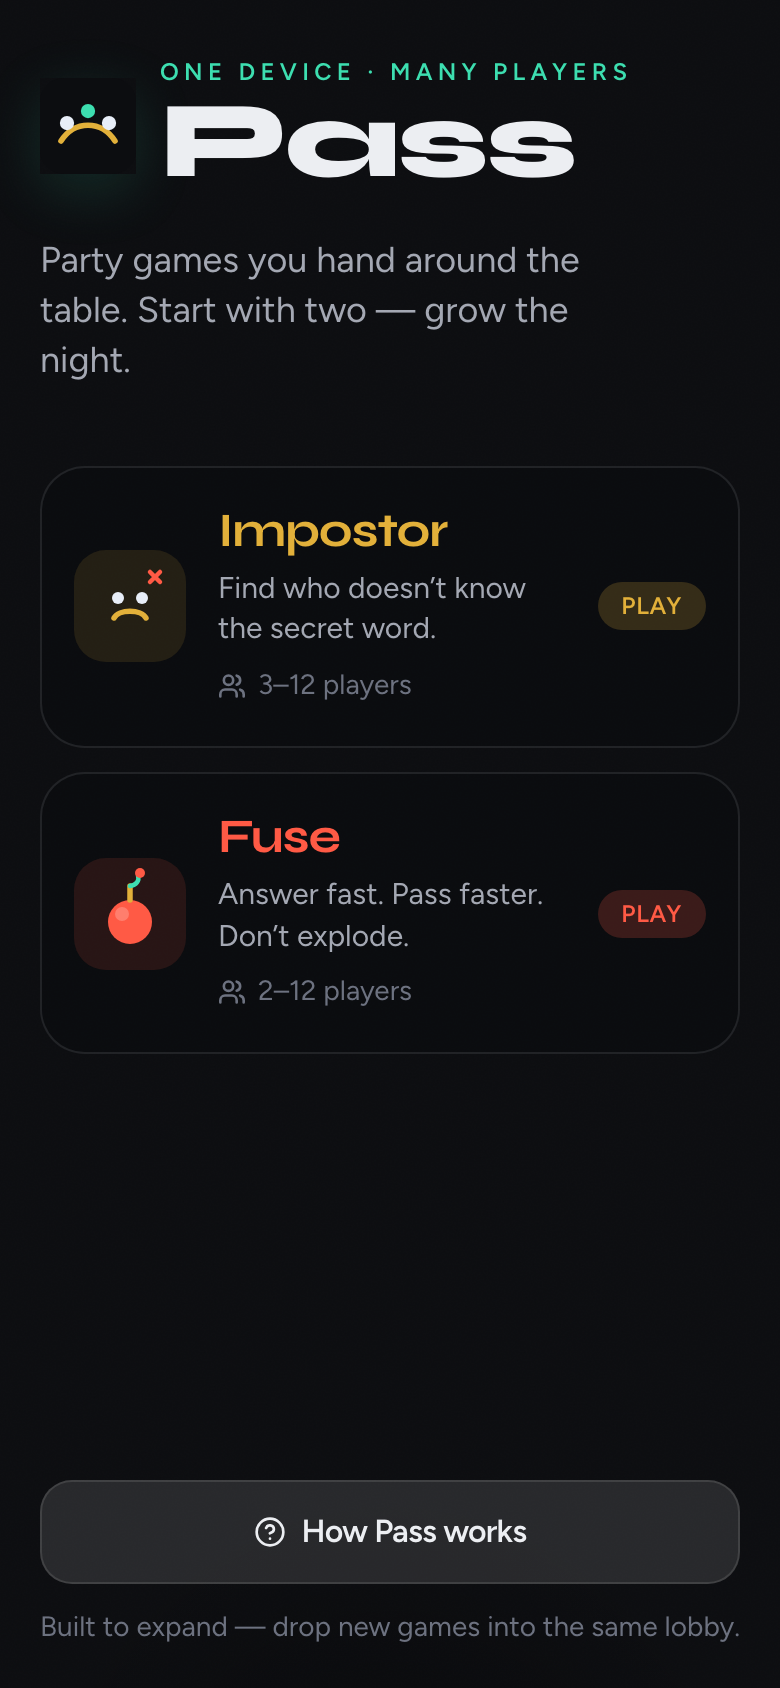
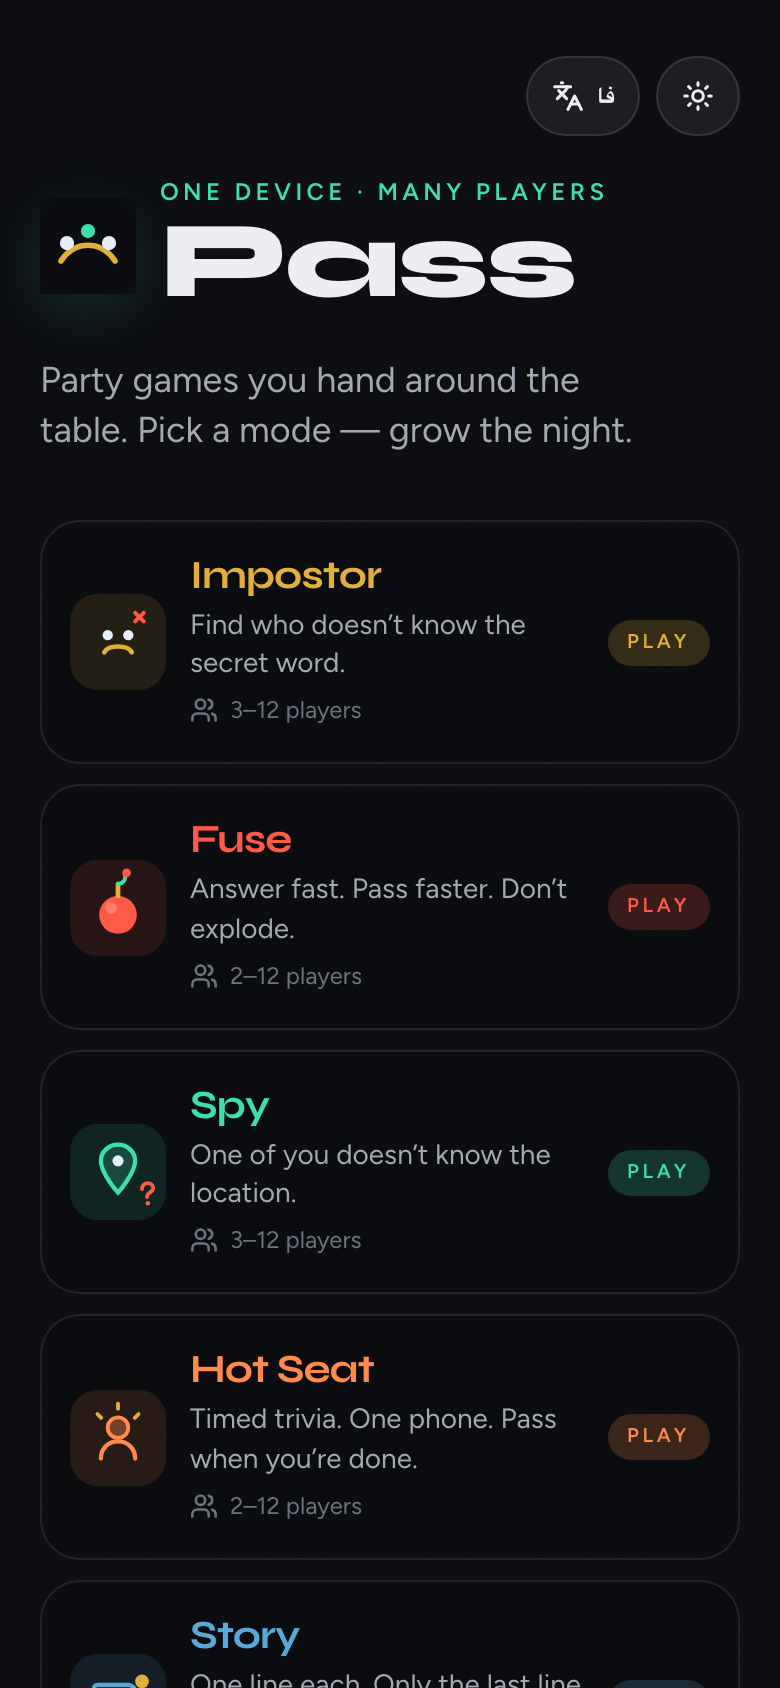
Polish Story, Know You, and Likely flows and add screenshots.
Fix scroll clipping, tighten home cards, speed up Know You passes, add sip undo, and document the new games in the README.

diff --git a/src/games/likely/Play.tsx b/src/games/likely/Play.tsx
@@ -27,6 +27,7 @@ export function LikelyPlay() {
   const lastRoundTop = useLikely((s) => s.lastRoundTop)
   const roundVotes = useLikely((s) => s.roundVotes)
   const toggleSip = useLikely((s) => s.toggleSip)
+  const undoSip = useLikely((s) => s.undoSip)
   const nextNever = useLikely((s) => s.nextNever)
   const showMostVote = useLikely((s) => s.showMostVote)
   const castVote = useLikely((s) => s.castVote)
@@ -64,19 +65,43 @@ export function LikelyPlay() {
           </h2>
           <p className="mt-3 text-sm text-fog-mute">{t('likely.play.sipHint')}</p>
           <div className="mt-6 grid gap-2">
-            {players.map((p) => (
-              <button
-                key={p.id}
-                type="button"
-                onClick={() => toggleSip(p.id)}
-                className="flex items-center justify-between rounded-2xl border border-fog/12 bg-ink/30 px-4 py-3 text-start transition-colors hover:border-gold/40 hover:bg-gold/10"
-              >
-                <span className="font-semibold text-fog">{p.name}</span>
-                <span className="tabular-nums text-gold">
-                  {t('likely.play.sips', { count: sips[p.id] ?? 0 })}
-                </span>
-              </button>
-            ))}
+            {players.map((p) => {
+              const count = sips[p.id] ?? 0
+              return (
+                <div
+                  key={p.id}
+                  className="flex items-center gap-2 rounded-2xl border border-fog/12 bg-ink/30 px-3 py-2"
+                >
+                  <button
+                    type="button"
+                    onClick={() => undoSip(p.id)}
+                    disabled={count <= 0}
+                    aria-label={t('likely.play.undoSip', { name: p.name })}
+                    className="flex size-11 shrink-0 items-center justify-center rounded-xl text-xl font-bold text-fog-mute transition-colors hover:bg-smoke hover:text-fog disabled:opacity-25"
+                  >
+                    −
+                  </button>
+                  <button
+                    type="button"
+                    onClick={() => toggleSip(p.id)}
+                    className="flex min-w-0 flex-1 items-center justify-between rounded-xl px-2 py-2 text-start transition-colors hover:bg-gold/10"
+                  >
+                    <span className="font-semibold text-fog">{p.name}</span>
+                    <span className="tabular-nums text-gold">
+                      {t('likely.play.sips', { count })}
+                    </span>
+                  </button>
+                  <button
+                    type="button"
+                    onClick={() => toggleSip(p.id)}
+                    aria-label={t('likely.play.addSip', { name: p.name })}
+                    className="flex size-11 shrink-0 items-center justify-center rounded-xl text-xl font-bold text-gold transition-colors hover:bg-gold/15"
+                  >
+                    +
+                  </button>
+                </div>
+              )
+            })}
           </div>
         </FadeSwap>
         <Button className="mt-6 w-full" size="xl" onClick={nextNever}>

diff --git a/src/games/bond/Play.tsx b/src/games/bond/Play.tsx
@@ -110,9 +110,17 @@ export function BondPlay() {
     return (
       <Screen>
         <TopBar title={subject?.name ?? t('games.bond.name')} onBack={leave} />
-        <p className="label-caps text-sm font-medium text-rose">
-          {t('bond.play.aboutYou')}
-        </p>
+        <div className="flex items-center justify-between gap-3">
+          <p className="label-caps text-sm font-medium text-rose">
+            {t('bond.play.aboutYou')}
+          </p>
+          <p className="text-sm text-fog-mute">
+            {t('bond.play.progress', {
+              current: answerIndex + 1,
+              total: queue.length,
+            })}
+          </p>
+        </div>
         <h2 className="mt-4 font-display text-2xl font-bold leading-snug tracking-tight">
           {prompt}
         </h2>
@@ -171,9 +179,17 @@ export function BondPlay() {
     return (
       <Screen>
         <TopBar title={guesser?.name ?? t('games.bond.name')} onBack={leave} />
-        <p className="label-caps text-sm font-medium text-rose">
-          {t('bond.play.aboutStar', { name: subject?.name ?? '' })}
-        </p>
+        <div className="flex items-center justify-between gap-3">
+          <p className="label-caps text-sm font-medium text-rose">
+            {t('bond.play.aboutStar', { name: subject?.name ?? '' })}
+          </p>
+          <p className="text-sm text-fog-mute">
+            {t('bond.play.progress', {
+              current: guessQuestionIndex + 1,
+              total: queue.length,
+            })}
+          </p>
+        </div>
         <h2 className="mt-4 font-display text-2xl font-bold leading-snug tracking-tight">
           {prompt}
         </h2>

diff --git a/src/i18n/messages.ts b/src/i18n/messages.ts
@@ -60,8 +60,8 @@ const en = {
   'howto.story.3': 'Hide your line and hand it on. No peeking.',
   'howto.story.4': 'When everyone’s done, read the full story out loud.',
   'howto.bond.title': 'How Know You works',
-  'howto.bond.1': 'Pick who’s in the spotlight — they answer questions privately.',
-  'howto.bond.2': 'Everyone else takes turns guessing what they picked.',
+  'howto.bond.1': 'Pick who’s in the spotlight — they answer all questions in one private pass.',
+  'howto.bond.2': 'Hand the phone to each friend; they guess what the star picked.',
   'howto.bond.3': 'Correct guesses score a point.',
   'howto.bond.4': 'Highest score knows them best.',
   'howto.likely.title': 'How Likely works',
@@ -297,8 +297,10 @@ const en = {
   'likely.play.neverTitle': 'Never have I ever',
   'likely.play.mostTitle': 'Most likely',
   'likely.play.round': 'Round {current}/{total}',
-  'likely.play.sipHint': 'Tap anyone who has done it.',
+  'likely.play.sipHint': 'Tap + when someone has done it. Use − to undo.',
   'likely.play.sips': '{count} sips',
+  'likely.play.addSip': 'Add sip for {name}',
+  'likely.play.undoSip': 'Undo sip for {name}',
   'likely.play.nextPrompt': 'Next prompt',
   'likely.play.seeResults': 'See results',
   'likely.play.lookAway': 'Everyone else: look away. Only {name} should see the next screen.',
@@ -391,8 +393,8 @@ const fa: Record<MessageKey, string> = {
   'howto.story.3': 'خطت را پنهان کن و بده. نگاه نکنید.',
   'howto.story.4': 'وقتی همه تمام شد، کل داستان را بلند بخوانید.',
   'howto.bond.title': 'چقدر میشناسی چطور کار میکند',
-  'howto.bond.1': 'یکی را برای مرکز توجه انتخاب کنید — اول خصوصی جواب میدهد.',
-  'howto.bond.2': 'بقیه نوبتی حدس میزنند چه جوابی داده.',
+  'howto.bond.1': 'یکی را برای مرکز توجه انتخاب کنید — همه سوالها را در یک پاس خصوصی جواب میدهد.',
+  'howto.bond.2': 'گوشی را به هر دوست بدهید؛ حدس میزنند ستاره چه انتخاب کرده.',
   'howto.bond.3': 'حدس درست یک امتیاز میدهد.',
   'howto.bond.4': 'بیشترین امتیاز یعنی بهتر میشناسدش.',
   'howto.likely.title': 'احتمال چطور کار میکند',
@@ -628,8 +630,10 @@ const fa: Record<MessageKey, string> = {
   'likely.play.neverTitle': 'هرگز…',
   'likely.play.mostTitle': 'از همه بیشتر',
   'likely.play.round': 'راند {current}/{total}',
-  'likely.play.sipHint': 'روی کسی بزن که این کار را کرده.',
+  'likely.play.sipHint': 'با + برای کسی که کرده بزن. با − برگردان.',
   'likely.play.sips': '{count} جرعه',
+  'likely.play.addSip': 'افزودن جرعه برای {name}',
+  'likely.play.undoSip': 'برگرداندن جرعه برای {name}',
   'likely.play.nextPrompt': 'پرامپت بعد',
   'likely.play.seeResults': 'دیدن نتایج',
   'likely.play.lookAway': 'بقیه نگاه نکنید. فقط {name} صفحه بعد را ببیند.',

diff --git a/src/screens/HomeScreen.tsx b/src/screens/HomeScreen.tsx
@@ -106,7 +106,7 @@ export function HomeScreen() {
         </motion.div>
 
         <motion.div
-          className="mt-10 space-y-3"
+          className="mt-8 space-y-2.5"
           initial={{ opacity: 0, y: 20 }}
           animate={{ opacity: 1, y: 0 }}
           transition={{ delay: 0.1, duration: 0.45, ease: [0.22, 1, 0.36, 1] }}
@@ -119,25 +119,25 @@ export function HomeScreen() {
                 type="button"
                 onClick={() => selectGame(game.id)}
                 className={cn(
-                  'group relative w-full overflow-hidden rounded-[1.4rem] border border-fog/10 px-4 py-4 text-start transition-[transform,background-color,border-color] duration-200',
+                  'group relative w-full overflow-hidden rounded-[1.25rem] border border-fog/10 px-3.5 py-3 text-start transition-[transform,background-color,border-color] duration-200',
                   'bg-ink/40 hover:-translate-y-0.5 hover:border-fog/22 hover:bg-ink/55',
                 )}
               >
-                <div className="flex items-center gap-4">
-                  <Mark className="size-14" />
+                <div className="flex items-center gap-3">
+                  <Mark className="size-12" />
                   <div className="min-w-0 flex-1">
                     <p
                       className={cn(
-                        'font-display text-2xl font-bold tracking-tight',
+                        'font-display text-xl font-bold tracking-tight',
                         accentText(game.accent),
                       )}
                     >
                       {t(gameNameKey[game.id])}
                     </p>
-                    <p className="mt-0.5 text-[15px] leading-snug text-fog-dim">
+                    <p className="mt-0.5 line-clamp-2 text-[14px] leading-snug text-fog-dim">
                       {t(gameTaglineKey[game.id])}
                     </p>
-                    <p className="mt-2 inline-flex items-center gap-1.5 text-sm text-fog-mute">
+                    <p className="mt-1.5 inline-flex items-center gap-1.5 text-xs text-fog-mute">
                       <Users className="size-3.5" strokeWidth={2.25} />
                       {t('home.playersRange', {
                         min: game.minPlayers,
@@ -147,7 +147,7 @@ export function HomeScreen() {
                   </div>
                   <span
                     className={cn(
-                      'label-caps shrink-0 rounded-full px-3 py-1 text-xs font-semibold',
+                      'label-caps shrink-0 rounded-full px-2.5 py-1 text-[10px] font-semibold',
                       accentPill(game.accent),
                     )}
                   >

diff --git a/src/games/bond/store.ts b/src/games/bond/store.ts
@@ -129,10 +129,11 @@ export const useBond = create<BondState>((set, get) => ({
       })
       return
     }
+    // Keep answering in one private session — no re-pass between the star’s own questions.
     set({
       subjectAnswers: next,
       answerIndex: answerIndex + 1,
-      phase: 'answerPass',
+      phase: 'answer',
     })
   },
 
@@ -167,7 +168,13 @@ export const useBond = create<BondState>((set, get) => ({
     } = get()
     const nextQ = guessQuestionIndex + 1
     if (nextQ < queue.length) {
-      set({ guessQuestionIndex: nextQ, phase: 'guessPass', lastCorrect: null, lastGuess: null })
+      // Same guesser keeps the phone — pass only when the next person starts.
+      set({
+        guessQuestionIndex: nextQ,
+        phase: 'guess',
+        lastCorrect: null,
+        lastGuess: null,
+      })
       return
     }
     const nextGuesser = guesserIndex + 1

diff --git a/src/games/story/Play.tsx b/src/games/story/Play.tsx
@@ -77,14 +77,20 @@ export function StoryPlay() {
             {lines.length === 0 ? starter : previous}
           </p>
           <label className="mt-6 block">
-            <span className="label-caps text-sm font-medium text-fog-mute">
-              {t('story.play.yourLine')}
+            <span className="flex items-center justify-between gap-3">
+              <span className="label-caps text-sm font-medium text-fog-mute">
+                {t('story.play.yourLine')}
+              </span>
+              <span className="text-xs tabular-nums text-fog-mute">
+                {draft.length}/220
+              </span>
             </span>
             <textarea
               value={draft}
               onChange={(e) => setDraft(e.target.value)}
               rows={4}
               maxLength={220}
+              autoFocus
               placeholder={t('story.play.placeholder')}
               className="mt-2 w-full resize-none rounded-2xl border border-fog/12 bg-ink/30 px-4 py-3 text-[17px] text-fog outline-none placeholder:text-fog-mute focus:border-sky/45"
             />

diff --git a/src/games/likely/store.ts b/src/games/likely/store.ts
@@ -38,6 +38,7 @@ interface LikelyState {
   setRounds: (n: number) => void
   beginRound: () => void
   toggleSip: (playerId: string) => void
+  undoSip: (playerId: string) => void
   nextNever: () => void
   showMostVote: () => void
   castVote: (targetId: string) => void
@@ -131,6 +132,14 @@ export const useLikely = create<LikelyState>((set, get) => ({
     const { phase, sips } = get()
     if (phase !== 'never') return
     set({ sips: { ...sips, [playerId]: (sips[playerId] ?? 0) + 1 } })
+  },
+
+  undoSip: (playerId) => {
+    const { phase, sips } = get()
+    if (phase !== 'never') return
+    const current = sips[playerId] ?? 0
+    if (current <= 0) return
+    set({ sips: { ...sips, [playerId]: current - 1 } })
   },
 
   nextNever: () => {

diff --git a/src/components/ui/Screen.tsx b/src/components/ui/Screen.tsx
@@ -9,8 +9,8 @@ interface ScreenProps {
 
 export function Screen({ children, className, wide }: ScreenProps) {
   return (
-    <div className="relative min-h-dvh night-surface overflow-hidden">
-      <div className="night-noise absolute inset-0" aria-hidden />
+    <div className="relative min-h-dvh night-surface overflow-x-hidden overflow-y-auto">
+      <div className="night-noise pointer-events-none absolute inset-0" aria-hidden />
       <div
         className={cn(
           'relative z-10 mx-auto flex min-h-dvh w-full flex-col safe-pad',

diff --git a/src/games/story/Setup.tsx b/src/games/story/Setup.tsx
@@ -55,7 +55,7 @@ export function StorySetup() {
         <p className="label-caps text-sm font-medium text-fog-mute">
           {t('story.setup.starterPack')}
         </p>
-        <div className="grid grid-cols-1 gap-2">
+        <div className="grid grid-cols-2 gap-2">
           {STARTER_PACKS.map((pack) => {
             const count = getPackStarters(pack.id).length
             return (

diff --git a/README.md b/README.md
@@ -80,12 +80,32 @@ Pick a game and start the night.
 
 ### Story
 
+<p align="center">
+  <img src="docs/screenshots/09-story-setup.png" alt="Story setup" width="220" />
+  &nbsp;
+  <img src="docs/screenshots/10-story-pass.png" alt="Story pass the phone" width="220" />
+</p>
+
+<p align="center">
+  <img src="docs/screenshots/11-story-write.png" alt="Story write a line" width="220" />
+</p>
+
 1. Pick a starter pack and lines each  
 2. Pass the phone — each player continues from the previous line only  
 3. Hide & pass — no peeking at the full story yet  
 4. Read the whole thing out loud at the end
 
 ### Know You
+
+<p align="center">
+  <img src="docs/screenshots/12-bond-setup.png" alt="Know You setup" width="220" />
+  &nbsp;
+  <img src="docs/screenshots/13-bond-pick.png" alt="Know You pick the star" width="220" />
+</p>
+
+<p align="center">
+  <img src="docs/screenshots/14-bond-pass.png" alt="Know You pass the phone" width="220" />
+</p>
 
 1. Pick friends or couple pack + question count  
 2. Choose who’s in the spotlight — they answer privately  
@@ -94,8 +114,14 @@ Pick a game and start the night.
 
 ### Likely
 
+<p align="center">
+  <img src="docs/screenshots/15-likely-setup.png" alt="Likely setup with Normal and Spicy" width="220" />
+  &nbsp;
+  <img src="docs/screenshots/16-likely-never.png" alt="Never Have I Ever sip screen" width="220" />
+</p>
+
 1. Choose Never Have I Ever or Most Likely, then Normal or Spicy  
-2. Never: show a prompt, tap who has done it  
+2. Never: tap + when someone has done it (use − to undo)  
 3. Most Likely: pass the phone for private votes, then reveal  
 4. Final tally after the rounds — large packs avoid recent repeats
 